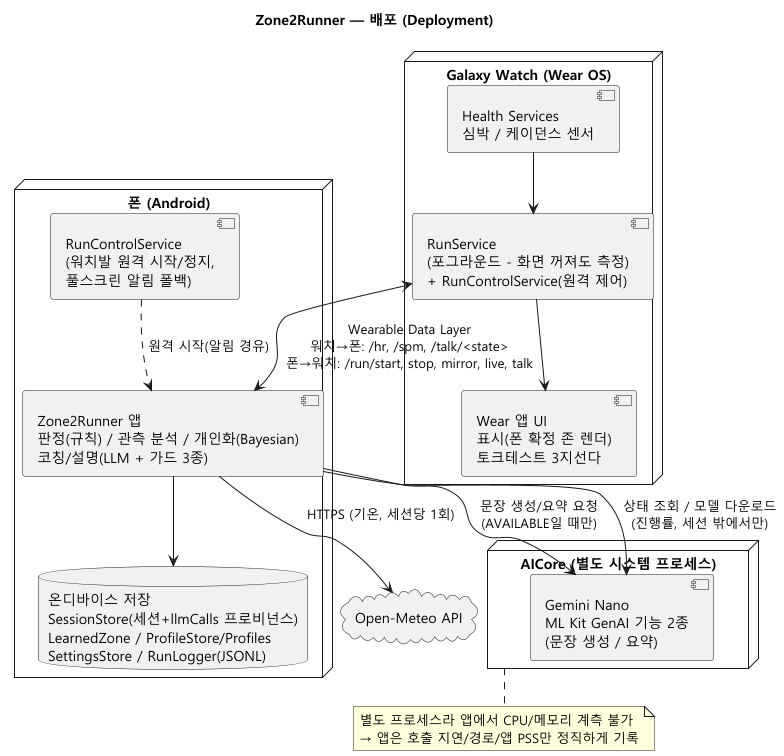
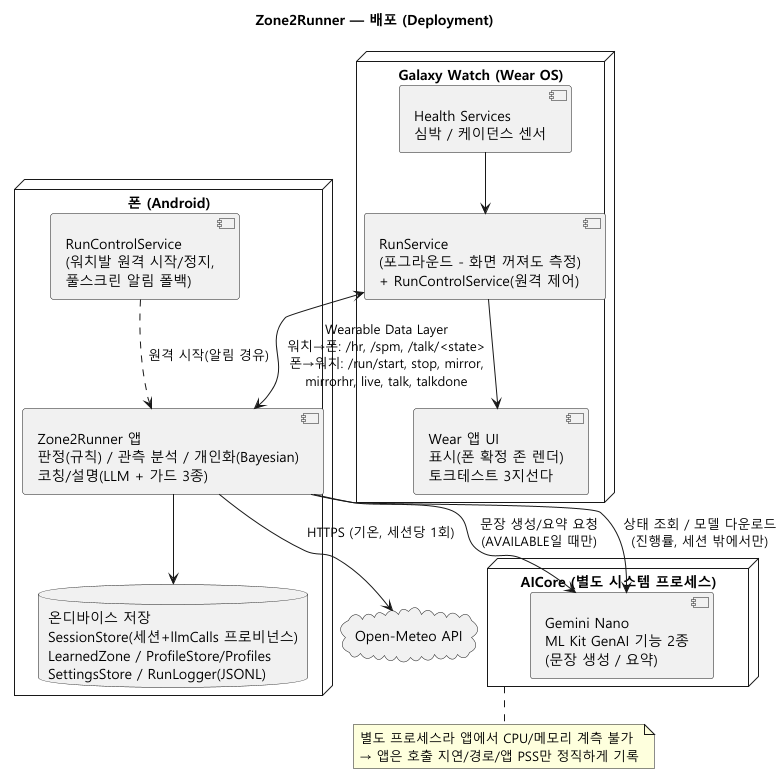
docs: 검증 루프 R1 반영 - 13건 수정
치명/중요: QA2 거짓 숫자(150.4→실제 prior 128bpm, 테스트 주석 포함), 타이밍 고정 인용(0.079ms→약 0.07ms 변동 표기),
QA 선정 문구 정밀화(테스트가능성은 8대 밖 - spec-002/report-018), framework §4-4 구 선정 메모에 대체 註,
OSM 지도 타일 서버 누락(Context 도식+report-014/017 - 유일한 네트워크 서술 정정)
사소: 프로비넌스 테스트 산정 통일(10건), 측정 경로 오기, ⓘ 팝업 과장 완화, Data Layer 경로 7종 완전화,
Module View 워치 ZoneGaugeView, 02 puml 가운뎃점+Windows 렌더 전환, OutlierGuard 주석 QA2→QA4, ±10~15bpm.
도식 4종 재렌더(01/02/03/04) + HTML 덱 5종 재배포. 전체 152테스트 그린 유지.

diff --git a/app/app/src/test/java/com/zone2runner/app/QaMeasurementTest.kt b/app/app/src/test/java/com/zone2runner/app/QaMeasurementTest.kt
@@ -36,7 +36,7 @@ class QaMeasurementTest {
     /** QA2 기능적응성 — 참임계를 아는 라벨원으로 8세션 폐루프: 수렴 오차/안착/진동폭/세션당 이동 한도. */
     @Test fun qa2_boundaryConvergence_overSessions() {
         val profile = Profile.default(35, 58)
-        val trueUpper = 141.0 // 진짜 상한(bpm) — 공식 prior(~150)와 어긋난 러너
+        val trueUpper = 141.0 // 진짜 상한(bpm) — 공식 prior(~128, %HRmax 0.70×183)보다 12.9bpm 높은 러너
         val rnd = Random(42)
         var carryUFrac: Double? = null
         val errors = mutableListOf<Double>()

diff --git a/app/app/src/main/java/com/zone2runner/app/pipeline/OutlierGuard.kt b/app/app/src/main/java/com/zone2runner/app/pipeline/OutlierGuard.kt
@@ -1,7 +1,7 @@
 package com.zone2runner.app.pipeline
 
 /**
- * QA2 강건성: 생리 범위(40~220 bpm) 밖 HR을 이상치로 기각.
+ * QA4 강건성: 생리 범위(40~220 bpm) 밖 HR을 이상치로 기각.
  * spec-003 이상값 가드. 특징/판정 이전에 적용해 튀는 값이 파이프라인을 오염시키지 않게 한다.
  */
 object OutlierGuard {

diff --git a/report/report-015-qa-verification.md b/report/report-015-qa-verification.md
@@ -2,7 +2,7 @@
 
 - **날짜**: 2026-08-01 (v1 — 시뮬/단위테스트 실측 완료, 실기기 실측 항목은 표기)
 - **용도**: 인증 보고서 PPT 원고. 본문 검증 표 1장 + Appendix(QA별 지표 산출 근거&측정 기준, QA별 검증 결과 상세).
-- **측정 도구(정본)**: `app/app/src/test/java/com/zone2runner/app/QaMeasurementTest.kt` — 검증 표의 모든 실측치가 이 테스트에서 재현된다(측정값은 `app/build/qa-measurements/`에 기록). 전체 스위트 = **단위 테스트 152개 전부 통과** (2026-08-01).
+- **측정 도구(정본)**: `app/app/src/test/java/com/zone2runner/app/QaMeasurementTest.kt` — 검증 표의 모든 실측치가 이 테스트에서 재현된다(측정값은 `app/app/build/qa-measurements/`에 기록). 전체 스위트 = **단위 테스트 152개 전부 통과** (2026-08-01).
 - **검증 층위(중요)**: 참값 없는 조건(C03)이므로 측정을 두 층으로 나눈다 — **①시뮬/단위테스트 실측**(구조 검증: 로직이 설계대로 동작하는가 — 지금 완료), **②실기기 실측**(결합/체감: 실주행에서 재측정 — 향후, spec-012). 시뮬 수치는 실인간 정확도 주장이 아니다(QA5 단서).
 
 ---
@@ -11,12 +11,12 @@
 
 | ID | QA | 제목 | 시나리오 | 검증결과 (목표치 → 측정결과) | 달성 |
 |---|---|---|---|---|:---:|
-| QA1 | 설명용이성 (AI) | 설명이 실제 사실에 근거 | 판정/코칭/개인화가 일어난 세션에서 설명을 요청 — 규칙이 확정한 사실만으로 생성되는가 | 목표: 지어낸 수치 0(기계 검증) + 코칭 1문장=근거 기록 1건<br>측정: **근거에 없는 숫자 문장 기각율 100%**(5/5, NumberGuard), 사실 문장 통과 3/3, 프로비넌스 1:1 기록/왕복 보존(테스트 6건), 규칙 팩트가 순수 함수라 동일 입력 → 동일 설명 | **O** |
+| QA1 | 설명용이성 (AI) | 설명이 실제 사실에 근거 | 판정/코칭/개인화가 일어난 세션에서 설명을 요청 — 규칙이 확정한 사실만으로 생성되는가 | 목표: 지어낸 수치 0(기계 검증) + 코칭 1문장=근거 기록 1건<br>측정: **근거에 없는 숫자 문장 기각율 100%**(5/5, NumberGuard), 사실 문장 통과 3/3, 프로비넌스 1:1 기록/왕복 보존(관련 테스트 10건: LlmCallLog 4 + SessionCodec 2 + NumberGuard 4), 규칙 팩트가 순수 함수라 동일 입력 → 동일 설명 | **O** |
 | QA2 | 기능적응성 (AI) | 개인 경계 수렴 | 참임계를 아는 라벨원으로 8세션 폐루프 — 공식 초기값에서 그 사람 자리로 수렴하는가 | 목표: 수렴 오차 감소 + 안착 + 진동폭 ≤ 라벨 산포(±4bpm)<br>측정: 초기 오차 **12.9bpm → 최종 1.73bpm(87% 감소)**, 오차 ≤3bpm 안착 = **1세션**, 마지막 4세션 진동폭 **3.04bpm**, 세션당 이동 ≤9.97bpm(한도 10 준수) | **O**¹ |
 | QA3 | 제어가능성 (AI) | 어긋난 출력 차단/폴백 | LLM이 판정과 모순/무방향 문장을 내면 기각되고 코칭이 이어지는가 | 목표: 방향위반 기각율 100% + 폴백 무중단 + 경계이동 ≤10bpm 보장<br>측정: **방향위반/무방향 기각율 100%**(10/10), 정상 문장 통과 5/5, 폴백 무중단(로딩 보류/단어 폴백 테스트 통과), **세션 이동 한도 10bpm 보장**(실측 최대 9.97) | **O** |
 | QA4 | 강건성 (AI) | 노이즈 입력 방어 | 생리범위 밖 이상치/경계 근처 ±3bpm 진동을 연속 입력 | 목표: 이상치 기각율 100% + Flicker 억제 + 진짜 이동은 즉시<br>측정: **이상치 기각율 100%**(50/50, 오탐 0/500), 경계 진동 시 판정 번복 **0.323→0.087회/초(73% 억제)**, 진짜 존 이동(+10bpm)은 **1틱 만에 전환** | **O** |
 | QA5 | 테스트가능성 (일반) | 참값 없는 검증 체계 | 워치 없이 입력을 교체해 전 파이프라인을 재현 검증할 수 있는가 | 목표: 기기 없이 독립 실행 + 자동 회귀 + 수렴 정량 검증<br>측정: **단위 테스트 152개 전원 JVM 실행**(기기 0대), 시뮬 소스 4종 교체(같은 파이프라인 코드), QA2의 수렴 곡선 자체가 이 체계로 산출됨. 단서: 시뮬=구조 검증(실인간 정확도 아님) | **O** |
-| QA6 | 수행효율성 (일반) | 실시간 반영 | 1Hz 샘플이 한 주기 내 판정/화면 반영, 코칭은 비동기 | 목표: 반영 지연 1주기 이내 + 코칭 생성 중 멈춤 0<br>측정(로직): 60분 세션(3600틱) 전 파이프라인 **틱당 0.079ms**(1Hz 주기의 0.008%), 코칭 LLM은 비동기(판정 스레드 미차단, 구조) | **△**² |
+| QA6 | 수행효율성 (일반) | 실시간 반영 | 1Hz 샘플이 한 주기 내 판정/화면 반영, 코칭은 비동기 | 목표: 반영 지연 1주기 이내 + 코칭 생성 중 멈춤 0<br>측정(로직): 60분 세션(3600틱) 전 파이프라인 **틱당 약 0.07ms**(실행별 0.06~0.08ms 변동, 1Hz 주기의 0.01% 미만), 코칭 LLM은 비동기(판정 스레드 미차단, 구조) | **△**² |
 
 - ¹ QA2: 시뮬 폐루프 실측(참임계는 시뮬에서만 존재). 실주행에서는 말하기 테스트 답과의 일치로 재확인(층위 ②, spec-012).
 - ² QA6: 로직 비용은 실측 완료(여유 4자릿수). "이탈 감지→TTS 발화 5초 이내(워치-폰 전송 포함)"는 **실기기 실측 대기** — 층위 ② 항목이라 △로 정직 표기. 실기기 캡처 세션에서 측정 예정.
@@ -88,7 +88,7 @@
 | (실기기) 코칭 음성 지연 | 이탈 감지→TTS 발화(워치-폰 전송 포함) | ≤5초 | ≤8초 |
 | 코칭 중 UI 멈춤 | LLM 생성 중 프레임 드랍/판정 지연 | 0 | 0 |
 
-**산출 근거**: (a) 10ms 기준 = 1Hz 주기의 1% — 판정 로직이 주기의 지배 요인이 아니어야 한다는 설계 요구. 실측 0.079ms로 여유 2자릿수 이상. (b) 5초 기준 = 코칭 유용성의 상한(스텝 수십 걸음 내 반영) — 실기기 항목으로 분리(JVM 측정은 무의미). (c) 비동기 구조(코칭이 판정 스레드를 막지 않음)는 코드 구조로 보장, 프레임 실측은 실기기에서.
+**산출 근거**: (a) 10ms 기준 = 1Hz 주기의 1% — 판정 로직이 주기의 지배 요인이 아니어야 한다는 설계 요구. 실측 약 0.07ms로 여유 2자릿수 이상. (b) 5초 기준 = 코칭 유용성의 상한(스텝 수십 걸음 내 반영) — 실기기 항목으로 분리(JVM 측정은 무의미). (c) 비동기 구조(코칭이 판정 스레드를 막지 않음)는 코드 구조로 보장, 프레임 실측은 실기기에서.
 
 ---
 
@@ -107,7 +107,7 @@
 
 | 항목 | 내용 |
 |---|---|
-| 시나리오 | 공식 초기값(150.4bpm 근방)과 12.9bpm 어긋난 러너(참임계 141bpm)가 8세션 사용 — 세션당 말하기 테스트 5회 |
+| 시나리오 | 공식 초기값(약 128bpm)보다 참임계가 12.9bpm 높은 러너(141bpm)가 8세션 사용 — 세션당 말하기 테스트 5회 |
 | 검증 방법 | 참임계 기준으로 답을 생성(편함/보통/벅참, ±4bpm 경계대+노이즈)하되 **학습기는 참임계를 모른 채** 갱신. 세션 간 warm-start 포함 폐루프. 세션별 \|μ−참임계\|/이동폭/진동폭 기록 |
 | 검증 결과 | 오차 12.9 → 2.93(1세션) → 1.73bpm(8세션). 안착 1세션(이동 한도 10bpm 덕에 초기 교정이 빠름). 마지막 4세션 진동폭 3.04bpm(라벨 산포 4bpm 이내). 세션당 이동 최대 9.97bpm(한도 미초과) |
 | 판정 | **달성(시뮬 층위)** — 감지→적응→안정 루프가 설계대로 동작. 실주행 재확인은 층위 ② |
@@ -145,7 +145,7 @@
 |---|---|
 | 시나리오 | 1Hz 샘플 스트림이 들어오는 동안 판정/화면이 밀리지 않고, LLM 코칭 생성이 이를 막지 않는다 |
 | 검증 방법 | ① 3600틱 세션의 전 파이프라인 처리 시간 측정(JVM) ② 코칭 비동기 구조 확인(판정 경로에 LLM 호출 없음 — 코드 구조) ③ (실기기) 이탈→TTS 5초, 프레임 멈춤 0 — 스크린샷 캡처 세션에서 측정 예정 |
-| 검증 결과 | 틱당 0.079ms(주기의 0.008%) — 로직은 병목이 아님. 실기기 항목 실측 대기 |
+| 검증 결과 | 틱당 약 0.07ms(실행별 0.06~0.08ms 변동, 주기의 0.01% 미만) — 로직은 병목이 아님. 실기기 항목 실측 대기 |
 | 판정 | **부분 달성(로직 층위 완료)** — 실기기 측정 후 확정 |
 
 ---

diff --git a/HANDOFF.md b/HANDOFF.md
@@ -11,10 +11,10 @@
 > **맥락**: 사용자 지시 — 샘플 보고서(framework/assignment PDF, 31p 구조 추출로 형식 확인)의 남은 파트 전부: 최종 Architecture 다이어그램(한 페이지 안 되면 모듈별 분할), 품질속성 검증(미친듯이 중요 — 표까지, 정의 조정 가능), 구현 파트(화면 소개 + 스크린샷 자리 지정), 결론, Appendix 7종, PlantUML 렌더, HTML. 전부 완료 + 푸시.
 >
 > - **★ 도식 10종** (`arch/diagrams/`): **06 최종 아키텍처 거시**(강의 표준 매핑: Inference/Explanation/Analysis/Operation Service + Data Lake/Registry + Retraining/Model Testing) + **06a~d 모듈 상세 4장**(A 추론 9컴포넌트 / B+C 설명·분석 / D+E 운영·저장 / F 적응·검증) + **04 Module View 신설**(패키지 의존 — 탐색 에이전트가 import 전수 집계: domain=리프, 결정 로직 안드로이드 미의존, sim→sensor DIP) + **05 Use Case 신설**(러너 10 + 검증자 1) + **01 Context / 03 Deployment as-built 현행화**(에이전트 감사: 가드3종 병기/모델 다운로드 경로/저장 5종/Data Layer 경로(/run/live 등)/워치=표시 전담/AICore 계측 한계 주석).
-> - **★★ QA 실측 도구 신설** `QaMeasurementTest.kt`(6측정, 측정값은 build/qa-measurements/에 기록, **전체 152테스트 그린**): QA1 없는숫자 기각율 100% / QA2 수렴 **12.9→1.73bpm(87%↓), 안착 1세션, 진동폭 3.04bpm, 이동한도 9.97≤10** / QA3 방향위반 기각 10/10 / QA4 이상치 기각 50/50(오탐 0), 플리커 번복 **0.323→0.087회/초(73%↓)**, 진짜 이동 1틱 / QA6 틱당 **0.079ms**. 검증 층위 2단(①시뮬/테스트 실측=완료, ②실기기 실측=대기 — QA6 TTS 5초만 △).
-> - **report 5종 신설**: **013 최종 아키텍처**(강의 용어 매핑 표 + DP=단면 표), **014 구현**(화면 8종 카드/기능 전수 소개 — spec-029 기반 에이전트 조사, **스크린샷 자리 19장 지정**[폰16+워치3, 캡처 조건 명시] — 실기기 연결 후 교체), **015 품질속성 검증**(본문 표 + QA별 지표 산출 근거&측정 기준 6종 + 검증 결과 상세 6종), **016 결론**(주요 성과 5/향후 계획 5), **017 Appendix**(조립 인덱스 + 뷰 5종 해설). + `report/README.md` 인덱스 신설, diagrams README 갱신.
+> - **★★ QA 실측 도구 신설** `QaMeasurementTest.kt`(6측정, 측정값은 build/qa-measurements/에 기록, **전체 152테스트 그린**): QA1 없는숫자 기각율 100% / QA2 수렴 **12.9→1.73bpm(87%↓), 안착 1세션, 진동폭 3.04bpm, 이동한도 9.97≤10** / QA3 방향위반 기각 10/10 / QA4 이상치 기각 50/50(오탐 0), 플리커 번복 **0.323→0.087회/초(73%↓)**, 진짜 이동 1틱 / QA6 틱당 **약 0.07ms**. 검증 층위 2단(①시뮬/테스트 실측=완료, ②실기기 실측=대기 — QA6 TTS 5초만 △).
+> - **report 5종 신설**: **013 최종 아키텍처**(강의 용어 매핑 표 + DP=단면 표), **014 구현**(화면 8종 카드/기능 전수 소개 — spec-029 기반 에이전트 조사, **스크린샷 자리 20장 지정**[폰16+워치3+합동1, 캡처 조건 명시] — 실기기 연결 후 교체), **015 품질속성 검증**(본문 표 + QA별 지표 산출 근거&측정 기준 6종 + 검증 결과 상세 6종), **016 결론**(주요 성과 5/향후 계획 5), **017 Appendix**(조립 인덱스 + 뷰 5종 해설). + `report/README.md` 인덱스 신설, diagrams README 갱신.
 > - **HTML 3종 배포**: 최종 아키텍처 = https://claude.ai/code/artifact/56da277d-24d0-4430-859c-5308c7ab8281 / Appendix 뷰 = https://claude.ai/code/artifact/9e8ad40f-e2cd-4542-84e9-da8f44ba4dfc / 구현·검증·결론 = https://claude.ai/code/artifact/ded1a065-554f-4d59-a30e-071f1b076208 (DP 5종 HTML은 직전 세션 기록 참조)
-> - **★ 남은 것(다음)**: (1) **실기기 스크린샷 19장 캡처**(report-014 자리 목록, 캡처 세션에서 QA6 TTS 지연 실측 병행) → report-014/015 갱신. (2) 사용자 검토(DP 2~5 + 신규 report 013~017) → 피드백 반영. (3) 남은 원고 = 01 과제 소개/02 요구사항 파트(spec-001/002 슬라이드화). (4) 최종 PPT 조립.
+> - **★ 남은 것(다음)**: (1) **실기기 스크린샷 20장 캡처**(report-014 자리 목록, 캡처 세션에서 QA6 TTS 지연 실측 병행) → report-014/015 갱신. (2) 사용자 검토(DP 2~5 + 신규 report 013~017) → 피드백 반영. (3) 남은 원고 = 01 과제 소개/02 요구사항 파트(spec-001/002 슬라이드화). (4) 최종 PPT 조립.
 >
 > --- (이하 이전 기록) ---
 >

diff --git a/report/report-017-appendix.md b/report/report-017-appendix.md
@@ -34,7 +34,7 @@
 **(그림: `arch/diagrams/01-context.png`)**
 
 - 시스템 경계: **Zone2Runner = 폰 앱(판정/분석/개인화/코칭의 단일 주체) + 워치 앱(측정/표시)**.
-- 외부 4종: Health Services(워치 센서 API), 폰 GPS, **Gemini Nano/AICore**(온디바이스 LLM — 별도 프로세스), Open-Meteo(기온 참고, 유일한 네트워크 — 세션당 1회).
+- 외부 4종: Health Services(워치 센서 API), 폰 GPS, **Gemini Nano/AICore**(온디바이스 LLM — 별도 프로세스), Open-Meteo(기온 참고, 세션당 1회) + OSM 지도 타일 서버(지도 표시용 타일 다운로드).
 - LLM 왕복에 통제가 명시된다: 나가는 것은 "규칙이 확정한 사실+임무"뿐, 들어오는 문장은 "가드 3종 통과 시 채택, 아니면 단어 폴백". 모델 다운로드는 세션 밖에서만.
 - 사용자에게 나가는 것에 "생성 근거(프로비넌스)"가 포함 — 설명용이성이 컨텍스트 수준에서 보인다.
 - 점선 액터 = 시뮬 입력(개발/검증) — RunSource 교체 지점.
@@ -59,7 +59,7 @@
 
 - 코드 정적 구조(패키지 의존): 폰 65파일 9패키지 + 워치 9파일 1패키지.
 - **읽는 포인트 3가지**: ① `domain`이 리프(의존 0, 안드로이드 미의존) — 순수 모델. ② 결정 로직(`pipeline`/`coaching`/`analysis`)이 전부 안드로이드 미의존 → **단위 테스트 152개가 기기 없이 실행**(테스트가능성의 구조적 근거). ③ `sim`이 `sensor`의 RunSource 인터페이스를 구현(의존성 역전) — 검증 입력이 운영과 같은 경로로 흐른다.
-- 워치는 뷰(Activity 2)/서비스(측정/원격제어)/링크(경로/공유 상태) 3그룹 — 폰과는 코드 의존이 아니라 Wearable Data Layer(프로세스 간)로만 연결.
+- 워치는 뷰(Activity 2 + ZoneGaugeView)/서비스(측정/원격제어)/링크(경로/공유 상태) 3그룹 — 폰과는 코드 의존이 아니라 Wearable Data Layer(프로세스 간)로만 연결.
 
 ## §6. Appendix. 최종 Architecture (C&C View)
 
@@ -74,7 +74,7 @@
 **(그림: `arch/diagrams/03-deployment.png`)**
 
 - 물리 배치 3노드 + 1클라우드: **워치**(Wear 앱 UI + RunService 포그라운드 측정 + Health Services), **폰**(앱 본체 + RunControlService 원격 제어 + 온디바이스 저장 5종), **AICore**(Gemini Nano — 별도 시스템 프로세스), Open-Meteo(HTTPS, 세션당 1회).
-- 폰-워치 커넥터 = Wearable Data Layer 경로 목록(워치→폰 /hr /spm /talk, 폰→워치 /run/start, stop, mirror, live, talk) — **/run/live(폰이 확정한 존의 1Hz 푸시)**가 "폰=단일 판정 주체" 결정의 배치상 증거.
+- 폰-워치 커넥터 = Wearable Data Layer 경로 목록(워치→폰 /hr /spm /talk, 폰→워치 /run/start, stop, mirror, mirrorhr, live, talk, talkdone — 7종 전체) — **/run/live(폰이 확정한 존의 1Hz 푸시)**가 "폰=단일 판정 주체" 결정의 배치상 증거.
 - 저장 5종에 **세션+LLM 호출 프로비넌스(SessionStore)**가 명시 — 감사 기록이 어디 남는지 배치도에서 추적된다.
 - AICore 별도 프로세스 주석: LLM 자체의 CPU/메모리는 앱에서 계측 불가 → 앱은 호출 지연/경로/앱 PSS만 기록(정직한 계측 한계 — 리포트 "LLM 사용" 카드의 ⓘ와 일치).
 

diff --git a/report/report-014-implementation.md b/report/report-014-implementation.md
@@ -2,7 +2,7 @@
 
 - **날짜**: 2026-08-01 (v1 — 본문 완성, 스크린샷은 실기기 캡처 대기)
 - **용도**: 인증 보고서 PPT 원고. 화면별 1페이지 구성(기능 소개 + 스크린샷). 샘플 p16 "구현" 파트의 확장.
-- **스크린샷 규칙**: `[📸 스크린샷 N-M: 캡처 대상 — 캡처 조건]` 자리표시. 실기기(폰 S23급 + Galaxy Watch) 연결 후 일괄 캡처해 교체한다. 캡처 목록 합계 = **폰 16장 + 워치 3장**.
+- **스크린샷 규칙**: `[📸 스크린샷 N-M: 캡처 대상 — 캡처 조건]` 자리표시. 실기기(폰 S23급 + Galaxy Watch) 연결 후 일괄 캡처해 교체한다. 캡처 목록 합계 = **20장 (폰 16 + 워치 3 + 폰/워치 합동 1)**.
 
 ---
 
@@ -13,7 +13,7 @@
 | 플랫폼 | Android 폰 앱 + Wear OS 워치 앱 (Kotlin) |
 | 코드 규모 | 폰 65파일 9패키지 + 워치 9파일 — 도메인/판정/코칭/분석 로직은 안드로이드 미의존 순수 모듈 |
 | AI 구성 | 판정=규칙, 개인화=온라인 베이지안, 분석=통계(회귀/EWMA), 표현=온디바이스 LLM(Gemini Nano) + 출력 가드 3종 |
-| 외부 의존 | Health Services(워치 센서), GPS, ML Kit GenAI(AICore), Open-Meteo(기온) — 서버 없음, 데이터 비이탈 |
+| 외부 의존 | Health Services(워치 센서), GPS, ML Kit GenAI(AICore), Open-Meteo(기온), OSM 지도 타일 — 자체 서버 없음, 러닝/개인 데이터 비이탈(네트워크 사용은 기온 조회와 지도 타일뿐) |
 | 검증 | JVM 단위 테스트 **152개**(품질 측정 6개 포함) 전부 통과 + 시뮬 폐루프 + 실기기 설치 확인 |
 | 특이점 | 시뮬레이션 모드가 정식 기능(가상 러너/수동 조작) — 워치 없이 전 기능 시연 가능 |
 
@@ -81,7 +81,7 @@
 **카드 구성**(렌더 순서): 이전 세션 대비(▲▼) → 오늘 컨디션(효율 vs 개인 기준선) → 세션 추세 스파크라인 → 개인 기록(🏅 신기록 배지) → 기간 요약(7/30일) → **이번 러닝 이야기**(터치=생성 근거 팝업) → 요약 → 존 체류 분포 → 심박 추이(Zone 2 밴드) → 페이스 추이 → 존 타임라인 → 유산소 분석(드리프트→코칭 인과 문장) → 관측 분석 지표(EF/드리프트/서브맥시멀) → km 구간(경사보정) → 경사 분해 → 워밍업 → 내리막 습관 → 초과 원인 분해 → 효율 곡선(이번 vs 직전 산점도) → 개인 Zone 2 학습(start→end) → 경로(존 색) → **코칭 로그** → **LLM 사용**.
 
 **설명용이성이 작동하는 지점**:
-- 모든 카드 제목에 **ⓘ 설명 팝업**(20개 지표 사전).
+- 카드 제목 대부분에 **ⓘ 설명 팝업**(지표 사전 20항목 — 타임라인/경로 같은 순수 시각 카드 일부는 제외).
 - **코칭 로그의 문장 터치 → 프로비넌스 팝업**: 그 문장의 근거 관측(판정/심박/경계/경사) + 생성 프롬프트 전문 + 채택/기각/폴백 경로 + 지연 — "이 말이 어떻게 만들어졌나"를 문장 단위로 추적(DP1/spec-027).
 - **LLM 사용 카드**: 총 호출, LLM 채택 vs 규칙 폴백, 용도별/지연/글자 수/폴백 사유별 카운트 + 앱 메모리. AICore가 별도 프로세스라 LLM 자체 자원은 계측 불가함을 ⓘ에 정직하게 명시(HOTL 감사, DP2).
 

diff --git a/report/report-018-intro-and-requirements.md b/report/report-018-intro-and-requirements.md
@@ -11,7 +11,7 @@
 ### 과제 배경
 
 - **Zone 2 훈련의 확산**: 낮은 강도(대화가 가능한 수준)를 오래 유지하는 유산소 기초 훈련이 일반 러너에게 널리 권장되고 있다. 문제는 "그 강도를 유지하는 것"이 생각보다 어렵다는 것 — 초보일수록 자기도 모르게 강도가 올라간다.
-- **개인차의 벽**: Zone 2의 기준이 되는 개인 심박 경계는 사람마다 다르고, 나이 공식은 개인 오차가 ±10bpm 수준이다. 경계가 10bpm 어긋나면 사실상 다른 운동을 하게 된다.
+- **개인차의 벽**: Zone 2의 기준이 되는 개인 심박 경계는 사람마다 다르고, 나이 공식은 개인 오차가 ±10~15bpm에 이른다. 경계가 10bpm 어긋나면 사실상 다른 운동을 하게 된다.
 - **온디바이스 AI의 성숙**: 폰 안에서 도는 소형 LLM(Gemini Nano)과 워치 센서 생태계가 갖춰져, 서버 없이도 실시간 개인화 코칭을 만들 수 있는 조건이 마련됐다.
 
 ### 과제 필요성
@@ -28,7 +28,7 @@
 |---|---|
 | 과제명 | **Zone2Runner** — 개인화 유산소(Zone 2) 러닝 코칭 앱. "당신의 Zone 2를 찾아 지켜주는 러너의 동반자"라는 의미 |
 | 목표 | 갤럭시 워치의 심박을 실시간으로 보며, **개인에게 맞춰진 Zone 2 경계** 기준으로 판정하고, 온디바이스 AI가 **근거 있는 음성 코칭**과 **설명 가능한 리포트**를 제공한다 |
-| 구성 | Android 폰 앱(판정/분석/개인화/코칭의 주체) + Wear OS 워치 앱(측정/표시) — 서버 없음, 데이터 비이탈 |
+| 구성 | Android 폰 앱(판정/분석/개인화/코칭의 주체) + Wear OS 워치 앱(측정/표시) — 자체 서버 없음, 러닝/개인 데이터 비이탈 |
 | AI 적용 | 판정=규칙, 개인화=온라인 베이지안(말하기 테스트 실라벨), 분석=관측 통계, 표현=온디바이스 LLM(가드 3종 통제) |
 | AI 적용에 따른 예상 효과 | ① 경계가 쓸수록 그 사람에게 수렴(공식 대비 오차 감소) ② 모든 판정/코칭에 추적 가능한 근거(신뢰) ③ 서버/구독 비용 0의 지속 가능 구조 ④ 시뮬 검증으로 참값 없는 문제의 품질 확보 |
 
@@ -61,7 +61,7 @@
 
 ## 슬라이드 4 — 품질 요구사항 (QAW / Utility Tree → ASR 선정)
 
-강의 **AI 8대 QA** 중 6개 선정 = **AI 특화 4 + 일반 SW 2** (규정: 4개 이상, AI 특화 2개 이상 — 충족).
+QA 6개 선정 = **AI 특화 4개**(설명용이성/기능적응성/제어가능성/강건성 — 강의 AI 8대 QA에서) + **일반 SW 2개**(테스트가능성 — 8대 밖의 일반 QA, 수행효율성 — 8대에도 속하나 AI 특화 계상에서는 보수적으로 제외). 규정(QA 4개 이상, AI 특화 2개 이상) 충족.
 
 | ID | QA | 분류 | 시나리오 요약 → [측정] | 중요도 | 난이도 |
 |:--:|---|---|---|:--:|:--:|

diff --git a/report/report-016-conclusion.md b/report/report-016-conclusion.md
@@ -12,7 +12,7 @@
 - **참값 없는 문제를 검증 가능한 AI 시스템으로 설계했다.** 개인 Zone 2 경계는 실험실 밖에서 잴 수 없다. 이 제약을 정면으로 받아들여 — 판정은 투명한 규칙, 개인화는 사용자 실라벨 기반 온라인 베이지안, 분석은 관측 통계, 표현만 온디바이스 LLM — 어느 값도 지어내지 않는 구조("없는 숫자 금지")를 세우고, 그 원칙을 기계 검증(숫자 무결성 가드)까지 내렸다.
 - **강의 AI System 아키텍처의 표준 요소를 온디바이스 앱 한 벌에 구현했다.** 입출력 가드레일, 모델 서빙(규칙/베이지안/분석/LLM), 설명 서비스, 분석 서비스, HITL/HOTL, Data Lake, 개인 적응(Retraining 대응), 시뮬 검증(모델 테스팅 대응) — 서버 없이, 비용 0으로, 데이터가 기기를 떠나지 않는 조건에서.
 - **설계 결정 5건(DP1~DP5)을 정체성 품질과 1:1로 세웠다.** 설명용이성(충실한 설명), 제어가능성(약한 LLM 통제), 기능적응성(실라벨 즉시 적응), 강건성(계층 방어), 테스트가능성(재현 검증) — 각각 진지한 대안과의 비교/Trade-off/조건 의존성을 명시했고, 다섯 DP가 같은 아키텍처의 다른 단면임을 보였다.
-- **검증을 실측으로 마쳤다.** 단위 테스트 152개(전 결정 로직이 기기 없이 실행) + 품질 측정 6종 — 경계 수렴 12.9→1.73bpm, 방향위반/이상치/없는숫자 기각율 100%, 판정 번복 73% 억제(진짜 이동은 1틱), 틱당 처리 0.079ms. 측정 도구가 저장소에 있어 언제든 재현된다.
+- **검증을 실측으로 마쳤다.** 단위 테스트 152개(전 결정 로직이 기기 없이 실행) + 품질 측정 6종 — 경계 수렴 12.9→1.73bpm, 방향위반/이상치/없는숫자 기각율 100%, 판정 번복 73% 억제(진짜 이동은 1틱), 틱당 처리 약 0.07ms. 측정 도구가 저장소에 있어 언제든 재현된다.
 - **구현이 설계 그대로다.** 화면 8종(폰 6+워치 2)의 모든 AI 접점 — 설명 팝업, 코칭 문장 근거 추적, 학습 반영 표시, LLM 사용 감사, 시뮬 검증 모드 — 이 DP의 결정들을 사용자 눈에 보이는 기능으로 구현한다.
 
 ### 2. 향후 계획

diff --git a/report/report-013-final-architecture.md b/report/report-013-final-architecture.md
@@ -72,6 +72,6 @@
 | Context View | `arch/diagrams/01-context.png` | 시스템 경계: 외부 = Health Services/GPS/Gemini Nano(AICore)/Open-Meteo. LLM 왕복에 "가드 3종 통과 시 채택" 명시, 모델 다운로드 경로와 시뮬 입력(검증용) 포함 |
 | Module View | `arch/diagrams/04-module-view.png` | 코드 패키지 의존: domain이 리프(의존 0), 결정 로직(pipeline/coaching/analysis)이 안드로이드 미의존 순수 모듈 → 단위 테스트 152개가 기기 없이 실행. sim은 sensor의 RunSource 인터페이스를 구현(DIP) |
 | C&C View | `arch/diagrams/02-component-cnc.png`(상세) / `02b-component-cnc-simple.png`(축약) | 실행 시 컴포넌트와 커넥터 — DP1~DP5의 채택안 도식이 바로 이 뷰 |
-| Deployment View | `arch/diagrams/03-deployment.png` | 워치(측정/표시 + 포그라운드 서비스) ↔ 폰(판정/분석/개인화/코칭 + 저장 5종) ↔ AICore(별도 프로세스, 계측 한계 명시) ↔ Open-Meteo(기온 1회) |
+| Deployment View | `arch/diagrams/03-deployment.png` | 워치(측정/표시 + 포그라운드 서비스) ↔ 폰(판정/분석/개인화/코칭 + 저장 5종, 전체 경로 7종) ↔ AICore(별도 프로세스, 계측 한계 명시) ↔ Open-Meteo(기온 1회) |
 
 > 정합 메모: Context/Deployment는 2026-08-01 as-built로 현행화(가드 3종/모델 다운로드/Data Layer 경로/워치=표시 전담/저장 5종). Module View/Use Case/최종 아키텍처 5종은 신설.

diff --git a/framework/ai-8-qa.md b/framework/ai-8-qa.md
@@ -132,8 +132,9 @@
 - **제외 근거**: **단일 사용자 개인화**라 집단 간 차별 이슈가 구조적으로 없음. 우리 유형의 중요 QA도 아님.
 
 ### 4-4. 수행효율성 (Performance Efficiency) — 제외
+> **[구 선정 메모 — 대체됨]** 이 절은 초기 검토 시점의 우리 판단이며, 이후 QA 선정 정본(spec-002 전면 재작성, 2026-07-10)에서 **수행효율성은 QA6(일반 SW 계상)로 선정**되었다 — 실시간 반응성(1Hz 반영/음성 5초)이 검증 가능한 품질 축이라는 이유. 현행 선정은 spec-002가 정본.
 - **정의**: 시간/자원 대비 성능(지연/처리량/자원사용).
-- **제외 근거**: 온디바이스는 "효율적"이라서가 아니라 **비용(C1)/오프라인(C4)** 때문. 오히려 성능이 기기에 종속(C6, 저가폰 미지원).
+- **제외 근거(당시)**: 온디바이스는 "효율적"이라서가 아니라 **비용(C1)/오프라인(C4)** 때문. 오히려 성능이 기기에 종속(C6, 저가폰 미지원).
   강의 Trade-off "품질강화 vs 수행효율성"에서 품질 쪽. → QA 아닌 **DP0/제약(C1)** 으로 다룸.
 
 ---

diff --git a/report/README.md b/report/README.md
@@ -12,7 +12,7 @@
 | 011 | `report-011-dp04-robustness-decision.md` | 03 설계 | DP4 강건성 (3장 + Appendix) |
 | 012 | `report-012-dp05-testability-decision.md` | 03 설계 | DP5 테스트가능성 (3장 + Appendix) |
 | 013 | `report-013-final-architecture.md` | 03 설계 | 최종 Architecture (거시 1장 + 모듈 4장 + 뷰 안내) |
-| 014 | `report-014-implementation.md` | 04 구현 | 화면 8종 기능 소개 + 스크린샷 자리 19장 지정 |
+| 014 | `report-014-implementation.md` | 04 구현 | 화면 8종 기능 소개 + 스크린샷 자리 20장 지정 |
 | 015 | `report-015-qa-verification.md` | 04 검증 | 품질속성 검증 표(실측) + QA별 지표 산출 근거/측정 기준 + 검증 결과 상세 |
 | 016 | `report-016-conclusion.md` | 05 결론 | 주요 성과 / 향후 계획 |
 | 017 | `report-017-appendix.md` | Appendix | 부록 조립 인덱스 + Use Case/Context/Module/C&C/Deployment 해설 |
